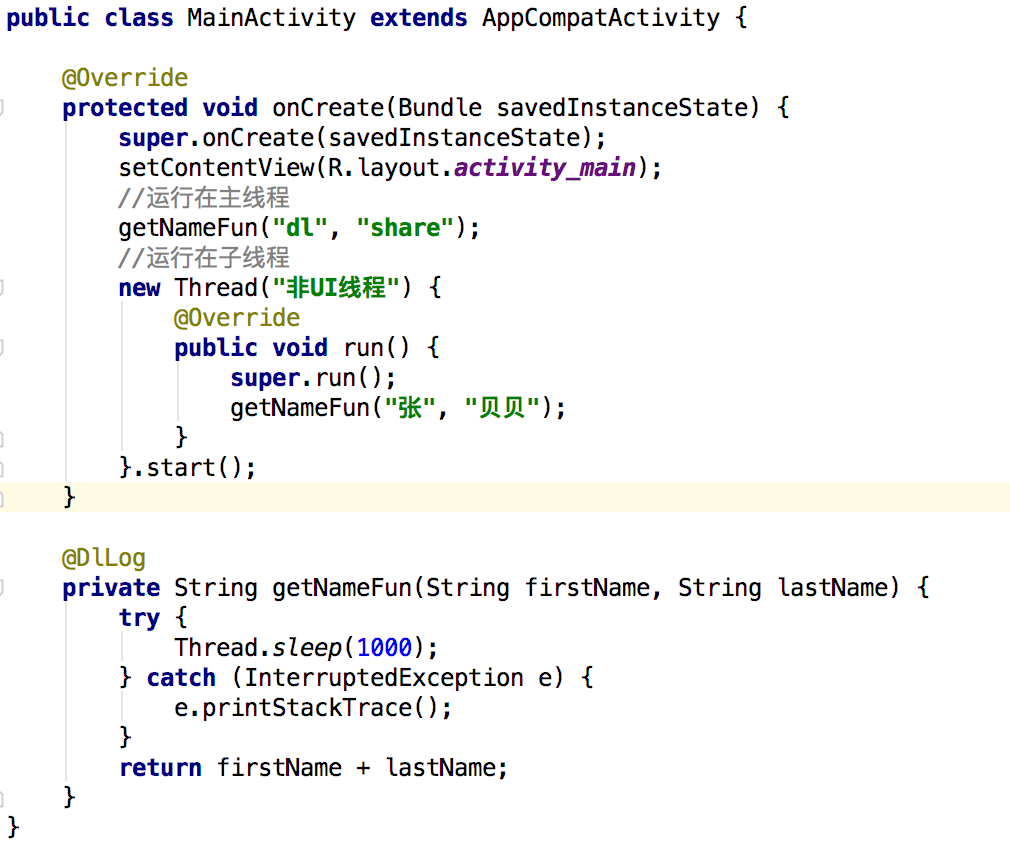
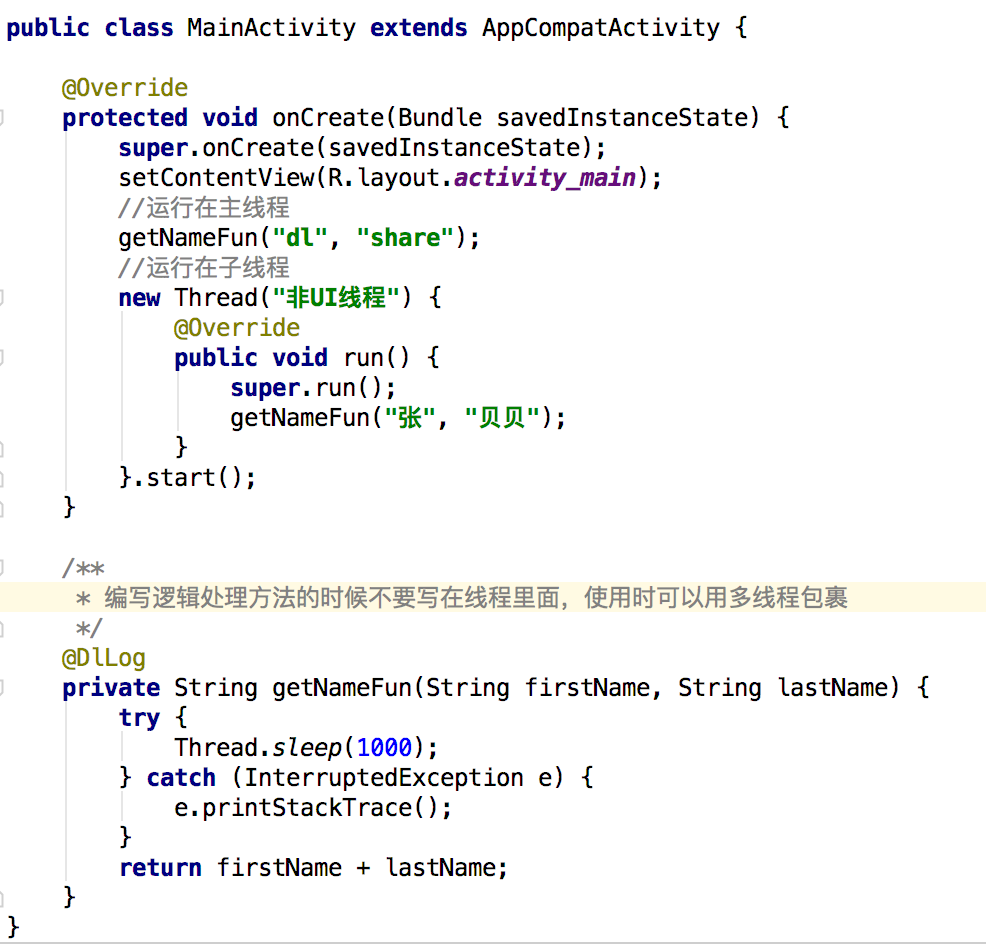
markdown使用：通过换行添加==设置大标题，通过换行添加--设置小标题，通过在新的一行前面添加##设置一二三...六级标题，直接添加超链接

Changed region(s): [[0.0, 0.0, 1.0, 0.9482], [0.0, 0.9176, 1.0, 1.0], [0.4564, 0.4282, 0.5781, 0.4894]]

diff --git a/app/src/main/java/com/dlshare/dllibtest/MainActivity.java b/app/src/main/java/com/dlshare/dllibtest/MainActivity.java
@@ -28,6 +28,9 @@ public class MainActivity extends AppCompatActivity {
         }.start();
     }
 
+    /**
+     * 编写逻辑处理方法的时候不要写在线程里面，使用时可以用多线程包裹
+     */
     @DlLog
     private String getNameFun(String firstName, String lastName) {
         try {

diff --git a/README.md b/README.md
@@ -1,23 +1,14 @@
-# DlLibTest
-用于测试我的lib的项目
+#DlLibTest,用于测试我的lib的项目
+##测试dldebuglib
+功能描述详见：https://github.com/dlshare/dldebuglog<br>
+###1.Gradle
+project的build.gradle中添加：<br>
+classpath 'com.hujiang.aspectjx:gradle-android-plugin-aspectjx:1.0.10'<br>
+app的builde.gradle中添加：<br>
+apply plugin: 'android-aspectjx'<br>
+compile 'com.dlshare:dldebuglog:0.1'<br>
 
-测试dldebuglib
-
-功能描述
-
-1.Gradle
-
-project的build.gradle中添加：
-
-classpath 'com.hujiang.aspectjx:gradle-android-plugin-aspectjx:1.0.10'
-
-app的builde.gradle中添加：
-
-apply plugin: 'android-aspectjx'
-
-compile 'com.dlshare:dldebuglog:0.1'
-
-2.使用
+###2.使用
 
 在方法名前面添加注解@DlLog
 
